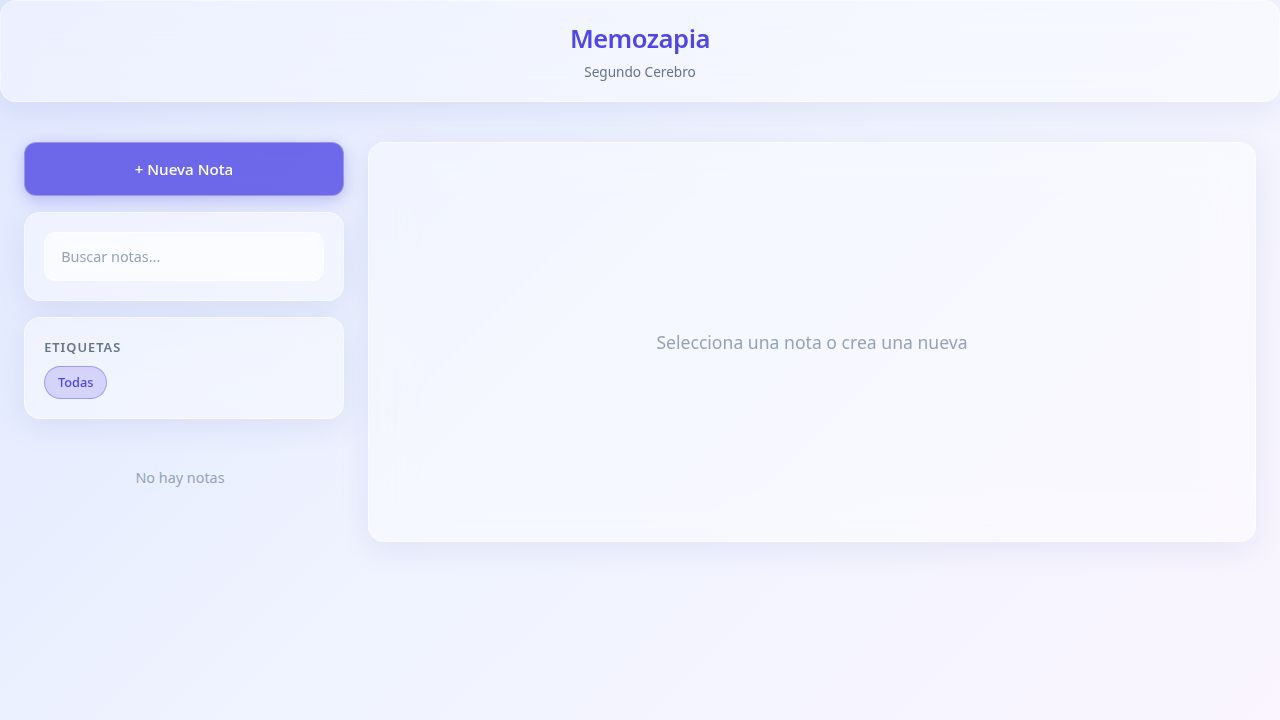
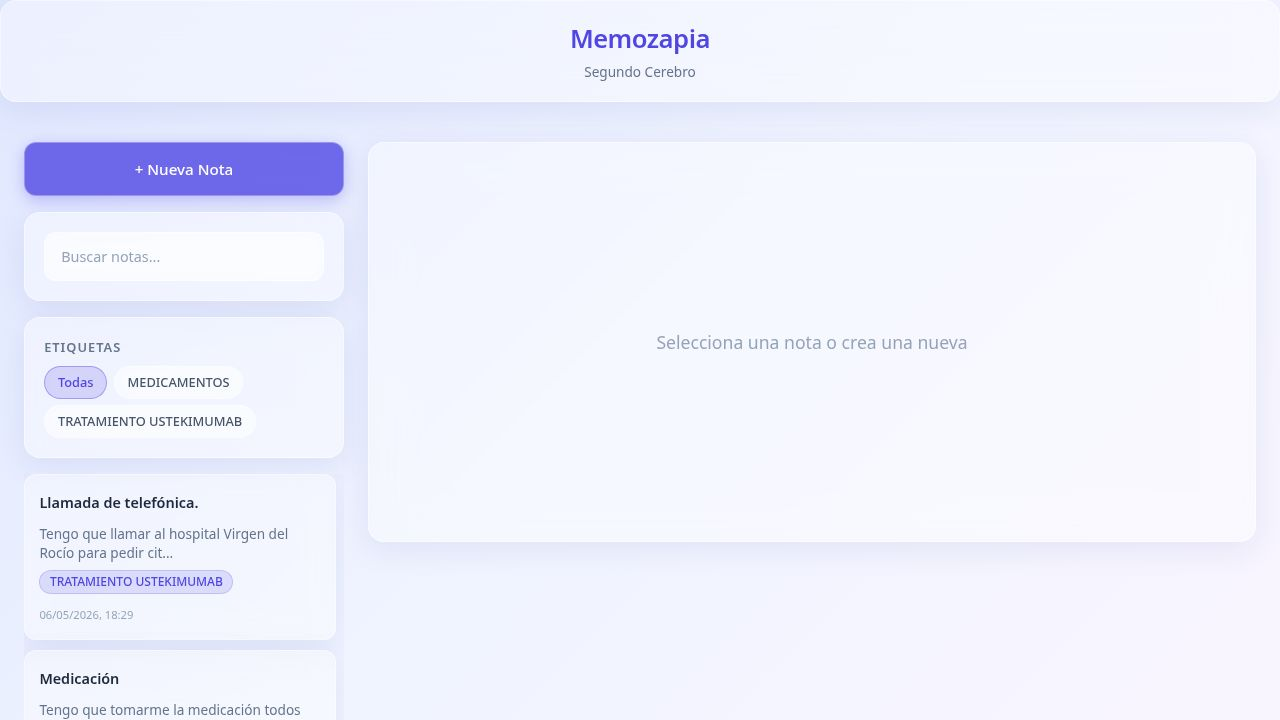
Add Telegram bot to allow users to interact with their notes
Integrate Telegraf Telegram bot with commands for managing notes, including creating, searching, and retrieving them.

Replit-Commit-Author: Agent
Replit-Commit-Session-Id: 61627adb-65e8-465b-87fe-cac299beaaa9
Replit-Commit-Checkpoint-Type: full_checkpoint
Replit-Commit-Event-Id: 86fe0ac4-0c7d-4065-b7f4-ec9bd35a3d32
Replit-Commit-Screenshot-Url: https://storage.googleapis.com/screenshot-production-us-central1/52209fca-1db8-474d-ad49-a0f7ff9d983d/61627adb-65e8-465b-87fe-cac299beaaa9/2DOVeZu
Replit-Helium-Checkpoint-Created: true

diff --git a/artifacts/api-server/src/telegram-bot.ts b/artifacts/api-server/src/telegram-bot.ts
@@ -1,0 +1,243 @@
+import { Telegraf } from "telegraf";
+import { logger } from "./lib/logger";
+
+const API_BASE = `http://localhost:${process.env["PORT"] || 8080}`;
+const API_URL = `${API_BASE}/api/notes`;
+
+async function fetchJson(url: string, options?: RequestInit) {
+  const res = await fetch(url, options);
+  if (!res.ok) {
+    const text = await res.text();
+    throw new Error(`HTTP ${res.status}: ${text}`);
+  }
+  return res.json();
+}
+
+export function createTelegramBot() {
+  const token = process.env["TELEGRAM_TOKEN"];
+  if (!token) {
+    logger.warn("TELEGRAM_TOKEN no configurado — bot de Telegram desactivado");
+    return null;
+  }
+
+  const bot = new Telegraf(token);
+
+  bot.telegram.getMe().then((me) => {
+    logger.info(`Bot de Telegram activo: @${me.username}`);
+  }).catch(() => {
+    logger.warn("No se pudo verificar el bot de Telegram (token inválido?)");
+  });
+
+  // /start
+  bot.start((ctx) => {
+    ctx.replyWithMarkdown(
+      "*🧠 Memozapia Bot*\n\n" +
+        "Tu segundo cerebro personal.\n\n" +
+        "*Comandos disponibles:*\n" +
+        "/notes — Ver notas recientes\n" +
+        "/search \\[texto\\] — Buscar notas\n" +
+        "/tags — Ver todas las etiquetas\n" +
+        "/reminder \\[texto\\] — Guardar un recordatorio\n" +
+        "/task \\[texto\\] — Guardar una tarea\n" +
+        "/summary — Resumen de tus notas\n" +
+        "/help — Ver ayuda\n\n" +
+        "_Cualquier mensaje de texto se guarda automáticamente como nota._"
+    );
+  });
+
+  // /help
+  bot.help((ctx) => {
+    ctx.replyWithMarkdown(
+      "*Ayuda — Memozapia Bot*\n\n" +
+        "/notes — Lista las 10 notas más recientes\n" +
+        "/search \\[texto\\] — Busca en título y contenido\n" +
+        "/tags — Muestra todas las etiquetas existentes\n" +
+        "/reminder \\[texto\\] — Guarda un recordatorio como nota\n" +
+        "/task \\[texto\\] — Guarda una tarea pendiente como nota\n" +
+        "/summary — Resumen de tus notas y etiquetas\n\n" +
+        "_Cualquier mensaje de texto se guarda como nota._"
+    );
+  });
+
+  // /notes
+  bot.command("notes", async (ctx) => {
+    try {
+      const notes = (await fetchJson(API_URL)) as Array<{
+        id: number;
+        title: string | null;
+        content: string;
+        tags: string[];
+      }>;
+      const recent = notes.slice(0, 10);
+      if (recent.length === 0) {
+        return ctx.reply("No tienes notas guardadas todavía.");
+      }
+      let msg = "*Tus notas recientes:*\n\n";
+      recent.forEach((note, i) => {
+        const title = note.title || "Sin título";
+        const preview = note.content.substring(0, 60).replace(/\n/g, " ");
+        const tags = note.tags?.length ? " _\\[" + note.tags.join(", ") + "\\]_" : "";
+        msg += `${i + 1}\\. *${escapeMarkdown(title)}*${tags}\n   ${escapeMarkdown(preview)}…\n\n`;
+      });
+      return ctx.replyWithMarkdownV2(msg);
+    } catch (err) {
+      logger.error(err, "Error /notes");
+      return ctx.reply("❌ Error al obtener las notas.");
+    }
+  });
+
+  // /search
+  bot.command("search", async (ctx) => {
+    const query = ctx.message.text.substring(8).trim();
+    if (!query) {
+      return ctx.reply("Uso: /search [texto a buscar]");
+    }
+    try {
+      const notes = (await fetchJson(
+        `${API_URL}?search=${encodeURIComponent(query)}`
+      )) as Array<{ title: string | null; content: string; tags: string[] }>;
+      if (notes.length === 0) {
+        return ctx.reply(`No se encontraron notas con "${query}".`);
+      }
+      let msg = `*Resultados para "${escapeMarkdown(query)}":*\n\n`;
+      notes.slice(0, 10).forEach((note, i) => {
+        const title = note.title || "Sin título";
+        const preview = note.content.substring(0, 50).replace(/\n/g, " ");
+        msg += `${i + 1}\\. *${escapeMarkdown(title)}*\n   ${escapeMarkdown(preview)}…\n\n`;
+      });
+      return ctx.replyWithMarkdownV2(msg);
+    } catch (err) {
+      logger.error(err, "Error /search");
+      return ctx.reply("❌ Error al buscar notas.");
+    }
+  });
+
+  // /tags
+  bot.command("tags", async (ctx) => {
+    try {
+      const tags = (await fetchJson(`${API_URL}/tags/all`)) as Array<{
+        id: number;
+        name: string;
+      }>;
+      if (tags.length === 0) {
+        return ctx.reply("No tienes etiquetas todavía.");
+      }
+      const tagList = tags.map((t) => `#${t.name}`).join("  ");
+      return ctx.replyWithMarkdown(`*Tus etiquetas:*\n\n${tagList}`);
+    } catch (err) {
+      logger.error(err, "Error /tags");
+      return ctx.reply("❌ Error al obtener las etiquetas.");
+    }
+  });
+
+  // /summary
+  bot.command("summary", async (ctx) => {
+    try {
+      const notes = (await fetchJson(API_URL)) as Array<{
+        title: string | null;
+        content: string;
+        tags: string[];
+      }>;
+      if (notes.length === 0) {
+        return ctx.reply("No tienes notas para resumir.");
+      }
+      const allTags = [...new Set(notes.flatMap((n) => n.tags || []))];
+      const tagsStr = allTags.length ? allTags.map((t) => `#${t}`).join(", ") : "ninguna";
+      return ctx.replyWithMarkdown(
+        `*📝 Resumen de tus notas:*\n\n` +
+          `• Total de notas: *${notes.length}*\n` +
+          `• Etiquetas usadas: ${tagsStr}\n\n` +
+          `_Usa /notes para ver las más recientes o /search para buscar._`
+      );
+    } catch (err) {
+      logger.error(err, "Error /summary");
+      return ctx.reply("❌ Error al generar el resumen.");
+    }
+  });
+
+  // /reminder
+  bot.command("reminder", async (ctx) => {
+    const text = ctx.message.text.substring(10).trim();
+    if (!text) {
+      return ctx.reply("Uso: /reminder [texto del recordatorio]");
+    }
+    try {
+      await fetchJson(API_URL, {
+        method: "POST",
+        headers: { "Content-Type": "application/json" },
+        body: JSON.stringify({
+          title: "Recordatorio: " + text.substring(0, 50),
+          content:
+            "⏰ Recordatorio: " +
+            text +
+            "\nCreado: " +
+            new Date().toLocaleString("es-ES"),
+          tags: ["recordatorio"],
+        }),
+      });
+      return ctx.replyWithMarkdown(`⏰ *Recordatorio guardado:*\n\n"${text}"`);
+    } catch (err) {
+      logger.error(err, "Error /reminder");
+      return ctx.reply("❌ Error al guardar el recordatorio.");
+    }
+  });
+
+  // /task
+  bot.command("task", async (ctx) => {
+    const text = ctx.message.text.substring(6).trim();
+    if (!text) {
+      return ctx.reply("Uso: /task [descripción de la tarea]");
+    }
+    try {
+      await fetchJson(API_URL, {
+        method: "POST",
+        headers: { "Content-Type": "application/json" },
+        body: JSON.stringify({
+          title: "Tarea: " + text.substring(0, 50),
+          content:
+            "✅ Tarea pendiente:\n" +
+            text +
+            "\nCreada: " +
+            new Date().toLocaleString("es-ES"),
+          tags: ["tarea", "pendiente"],
+        }),
+      });
+      return ctx.replyWithMarkdown(`✅ *Tarea guardada:*\n\n"${text}"`);
+    } catch (err) {
+      logger.error(err, "Error /task");
+      return ctx.reply("❌ Error al guardar la tarea.");
+    }
+  });
+
+  // Mensajes de texto libres → guardar como nota
+  bot.on("text", async (ctx) => {
+    if (ctx.message.text.startsWith("/")) return;
+    try {
+      const content = ctx.message.text;
+      await fetchJson(API_URL, {
+        method: "POST",
+        headers: { "Content-Type": "application/json" },
+        body: JSON.stringify({ title: null, content, tags: [] }),
+      });
+      const preview = content.substring(0, 80);
+      return ctx.reply(
+        `✅ Nota guardada:\n"${preview}${content.length > 80 ? "…" : ""}"`
+      );
+    } catch (err) {
+      logger.error(err, "Error guardando nota desde Telegram");
+      return ctx.reply("❌ Error al guardar la nota.");
+    }
+  });
+
+  // Notas de voz
+  bot.on("voice", (ctx) => {
+    return ctx.reply("🎙️ Nota de voz recibida. La transcripción automática estará disponible próximamente.");
+  });
+
+  return bot;
+}
+
+// Escapa caracteres especiales para MarkdownV2
+function escapeMarkdown(text: string): string {
+  return text.replace(/[_*[\]()~`>#+\-=|{}.!\\]/g, "\\$&");
+}

diff --git a/artifacts/api-server/src/index.ts b/artifacts/api-server/src/index.ts
@@ -1,5 +1,6 @@
 import app from "./app";
 import { logger } from "./lib/logger";
+import { createTelegramBot } from "./telegram-bot";
 
 const rawPort = process.env["PORT"];
 
@@ -22,4 +23,15 @@ app.listen(port, (err) => {
   }
 
   logger.info({ port }, "Server listening");
+
+  // Arrancar el bot de Telegram en modo long-polling
+  // Nota: bot.launch() es una promesa que nunca resuelve (polling indefinido)
+  const bot = createTelegramBot();
+  if (bot) {
+    bot.launch().catch((e: unknown) =>
+      logger.error(e, "Error en el bot de Telegram")
+    );
+    process.once("SIGINT", () => bot.stop("SIGINT"));
+    process.once("SIGTERM", () => bot.stop("SIGTERM"));
+  }
 });